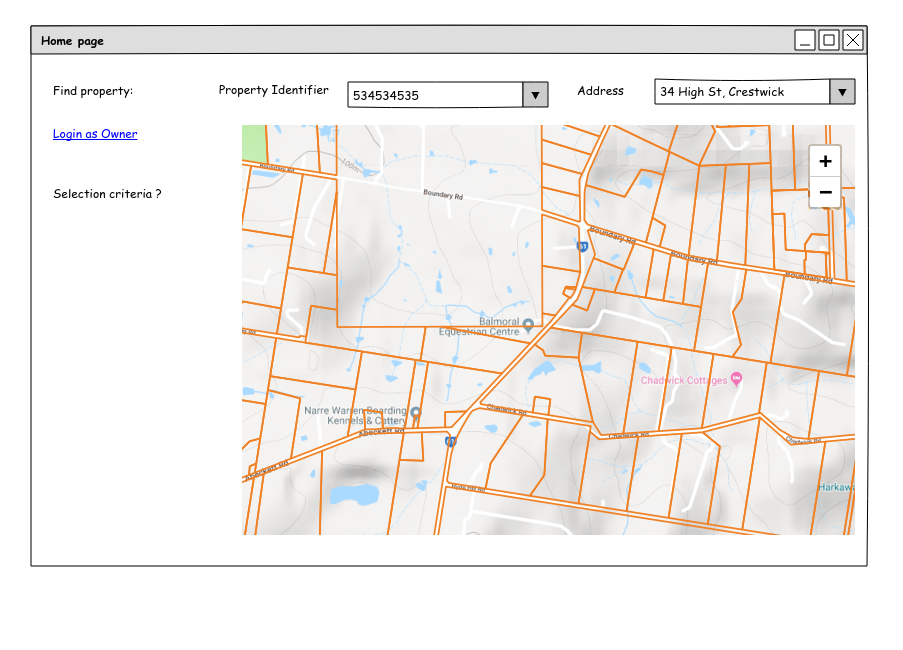
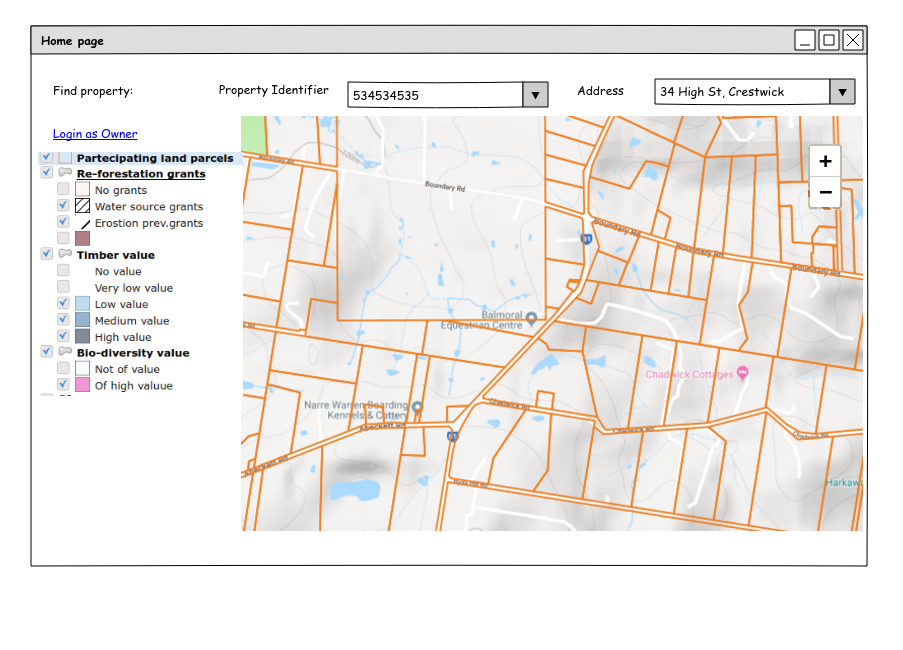
- Added information layers - Added chckboxes to make information availalbe on the property form

diff --git a/index.html b/index.html
@@ -1,2 +1,2 @@
 <html xmlns="http://www.w3.org/1999/xhtml" xmlns:p="http://www.evolus.vn/Namespace/Pencil" xmlns:html="http://www.w3.org/1999/xhtml"><head><meta http-equiv="Content-Type" content="text/html; charset=UTF-8" />
-<title>storyboard</title><link rel="stylesheet" href="Resources/SampleStyle.css" /></head><body><h1 id="documentTitle">storyboard</h1><p id="documentMetadata">Exported at: Wed Oct 17 2018 08:56:52 GMT+1100 (AEDT)</p><div class="Page" id="home_page_page"><h2>Home page</h2><div class="ImageContainer"><img src="pages/home_page.png" width="903" height="650" usemap="#map_home_page" /></div><map name="map_home_page"><area shape="rect" coords="348,82,548,108" href="#home_page_zoom_to_page_page" title="Go to page 'Home page - Zoom to page'" /><area shape="rect" coords="655,79,855,104" href="#home_page_zoom_to_page_page" title="Go to page 'Home page - Zoom to page'" /><area shape="rect" coords="53,125,138,142" href="#owner_login_page" title="Go to page 'Owner login'" /></map></div><div class="Page" id="home_page_zoom_to_page_page"><h2>Home page - Zoom to page</h2><div class="ImageContainer"><img src="pages/home_page_zoom_to_page.png" width="903" height="650" usemap="#map_home_page_zoom_to_page" /></div><map name="map_home_page_zoom_to_page"><area shape="rect" coords="53,125,138,142" href="#owner_login_page" title="Go to page 'Owner login'" /></map></div><div class="Page" id="owner_login_page"><h2>Owner login</h2><div class="ImageContainer"><img src="pages/owner_login.png" width="903" height="650" usemap="#map_owner_login" /></div><map name="map_owner_login"><area shape="rect" coords="0,31,416,344" href="#openid_login_page" title="Go to page 'OpenID Login'" /></map></div><div class="Page" id="openid_login_page"><h2>OpenID Login</h2><div class="ImageContainer"><img src="pages/openid_login.png" width="960" height="600" usemap="#map_openid_login" /></div><map name="map_openid_login"><area shape="rect" coords="31,42,409,259" href="#owner_page_page" title="Go to page 'Owner page'" /></map></div><div class="Page" id="owner_page_page"><h2>Owner page</h2><div class="ImageContainer"><img src="pages/owner_page.png" width="903" height="650" usemap="#map_owner_page" /></div><map name="map_owner_page"><area shape="rect" coords="51,425,213,451" href="#property_input_form_page" title="Go to page 'Property input form'" /><area shape="rect" coords="49.5,196.5,210.5,405.5" href="#property_input_form_page" title="Go to page 'Property input form'" /><area shape="rect" coords="53,136,91,153" href="#home_page_page" title="Go to page 'Home page'" /></map></div><div class="Page" id="property_input_form_page"><h2>Property input form</h2><div class="ImageContainer"><img src="pages/property_input_form.png" width="903" height="650" usemap="#map_property_input_form" /></div><map name="map_property_input_form"><area shape="rect" coords="663,457,753,482" href="#owner_page_page" title="Go to page 'Owner page'" /><area shape="rect" coords="555,456,645,481" href="#owner_page_page" title="Go to page 'Owner page'" /></map></div><div class="Page" id="untitled_page_page"><h2>Untitled Page</h2><div class="ImageContainer"><img src="pages/untitled_page.png" width="1244" height="464" usemap="#map_untitled_page" /></div><map name="map_untitled_page"></map></div></body></html>
+<title>storyboard</title><link rel="stylesheet" href="Resources/SampleStyle.css" /></head><body><h1 id="documentTitle">storyboard</h1><p id="documentMetadata">Exported at: Tue Nov 20 2018 10:05:24 GMT+1100 (AEDT)</p><div class="Page" id="home_page_page"><h2>Home page</h2><div class="ImageContainer"><img src="pages/home_page.png" width="903" height="650" usemap="#map_home_page" /></div><map name="map_home_page"><area shape="rect" coords="348,82,548,107" href="#home_page_zoom_to_page_page" title="Go to page 'Home page - Zoom to page'" /><area shape="rect" coords="655,79,855,104" href="#home_page_zoom_to_page_page" title="Go to page 'Home page - Zoom to page'" /><area shape="rect" coords="53,125,138,142" href="#owner_login_page" title="Go to page 'Owner login'" /></map></div><div class="Page" id="home_page_zoom_to_page_page"><h2>Home page - Zoom to page</h2><div class="ImageContainer"><img src="pages/home_page_zoom_to_page.png" width="903" height="650" usemap="#map_home_page_zoom_to_page" /></div><map name="map_home_page_zoom_to_page"><area shape="rect" coords="53,125,138,142" href="#owner_login_page" title="Go to page 'Owner login'" /></map></div><div class="Page" id="owner_login_page"><h2>Owner login</h2><div class="ImageContainer"><img src="pages/owner_login.png" width="903" height="650" usemap="#map_owner_login" /></div><map name="map_owner_login"><area shape="rect" coords="0,31,416,344" href="#openid_login_page" title="Go to page 'OpenID Login'" /></map></div><div class="Page" id="openid_login_page"><h2>OpenID Login</h2><div class="ImageContainer"><img src="pages/openid_login.png" width="960" height="600" usemap="#map_openid_login" /></div><map name="map_openid_login"><area shape="rect" coords="31,42,409,259" href="#owner_page_page" title="Go to page 'Owner page'" /></map></div><div class="Page" id="owner_page_page"><h2>Owner page</h2><div class="ImageContainer"><img src="pages/owner_page.png" width="903" height="650" usemap="#map_owner_page" /></div><map name="map_owner_page"><area shape="rect" coords="51,424,213,450" href="#property_input_form_page" title="Go to page 'Property input form'" /><area shape="rect" coords="49.5,196.5,209.5,405.5" href="#property_input_form_page" title="Go to page 'Property input form'" /><area shape="rect" coords="53,136,91,153" href="#home_page_page" title="Go to page 'Home page'" /></map></div><div class="Page" id="property_input_form_page"><h2>Property input form</h2><div class="ImageContainer"><img src="pages/property_input_form.png" width="903" height="650" usemap="#map_property_input_form" /></div><map name="map_property_input_form"><area shape="rect" coords="663,456,753,482" href="#owner_page_page" title="Go to page 'Owner page'" /><area shape="rect" coords="555,456,645,481" href="#owner_page_page" title="Go to page 'Owner page'" /></map></div></body></html>
